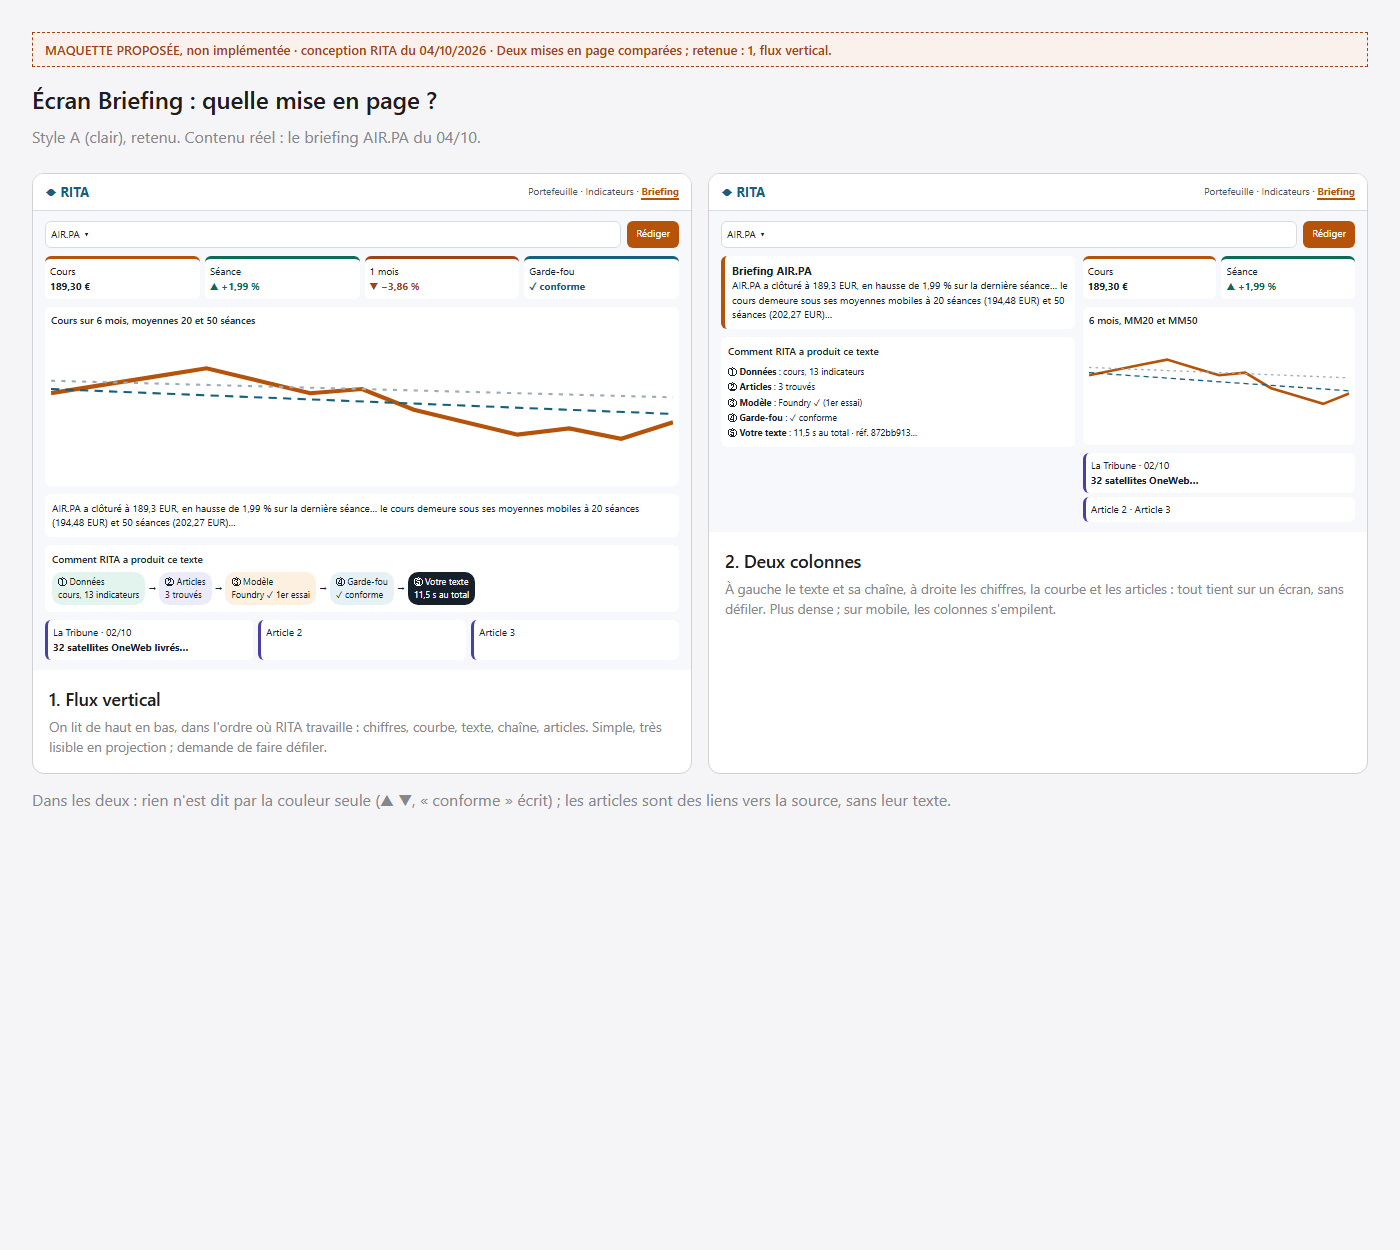
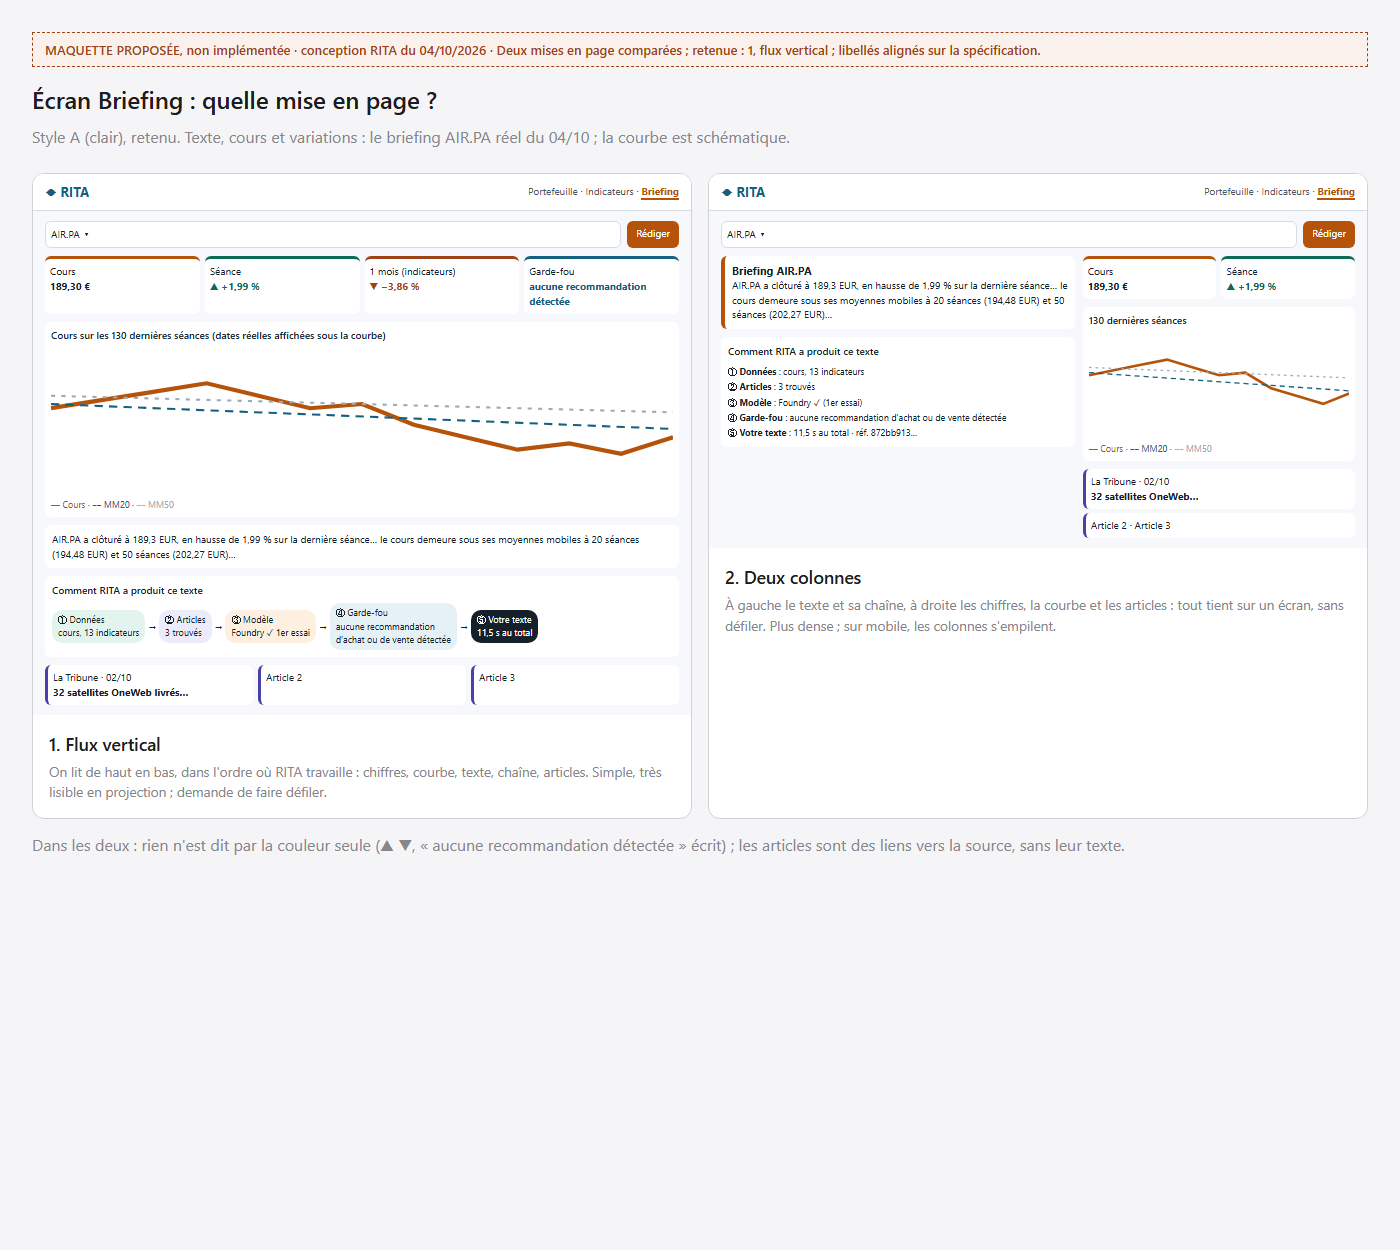
Specification de la refonte, quatrieme relecture : plus d exception a la decision A ; chaque chiffre affiche relie a un champ reel (indicateurs par ticker pour le briefing, cartes du portefeuille sans agregat recalcule) ; exemple separe entre observe (trace Langfuse) et illustratif ; jours de bourse

diff --git a/docs/conception/frontend/refonte-2026-10.md b/docs/conception/frontend/refonte-2026-10.md
@@ -64,9 +64,9 @@ navigateur. Les noms de champs sont ceux de l'API, suffixes compris.
 
 | Écran | Appels | Champs utilisés |
 |---|---|---|
-| Portefeuille | `GET /donnees/portefeuille`, `GET /donnees/indicateurs-portefeuille`, `GET /donnees/fraicheur`, en parallèle | `valorisation_eur`, `investi_eur`, `performance_pct`, `date_cours` (par ligne), `positions_sans_taux` ; `poids_pct`, `complet`, `nb`, `total_eur`, `exposition` |
+| Portefeuille | `GET /donnees/portefeuille`, `GET /donnees/indicateurs-portefeuille`, `GET /donnees/fraicheur`, en parallèle | cartes : `total_eur` (« non calculable » s'il vaut `null`), `nb`, `positions_sans_taux`, `positions_closes` ; par ligne : `valorisation_eur`, `investi_eur`, `performance_pct`, `date_cours` ; poids : `poids_pct`, `complet`, `exposition`. **Aucune performance globale** : l'API n'en fournit pas, et le navigateur n'en recalcule pas |
 | Indicateurs | `GET /donnees/indicateurs`, `GET /donnees/indicateurs-risque` ; au choix d'une valeur, `GET /donnees/cotations?ticker=…&limite=179` | `perf_1j_pct`, `perf_1s_pct`, `perf_1m_pct`, `perf_ytd_pct`, `perf_1a_pct` ; `rsi_14`, `volatilite_annualisee_pct`, `drawdown_max_1a_pct` ; le nombre de valeurs est lu dans la réponse, jamais écrit en dur |
-| Briefing | `POST /briefing?ticker=…` (un seul envoi par clic) ; après la réponse, `GET /donnees/cotations?ticker=…&limite=179` | les champs actuels, plus `diagnostic` (§ 6) |
+| Briefing | `POST /briefing?ticker=…` (un seul envoi par clic) ; après la réponse, `GET /donnees/indicateurs?ticker=…` et `GET /donnees/cotations?ticker=…&limite=179` | les champs actuels, plus `diagnostic` (§ 6) ; la carte « 1 mois » vient de `perf_1m_pct` (`/donnees/indicateurs` accepte `?ticker=`) |
 
 **La courbe du cours et ses moyennes**
 - `GET /donnees/cotations` renvoie les séances **de la plus récente à la plus ancienne** : elles sont remises dans l'ordre
@@ -81,9 +81,13 @@ navigateur. Les noms de champs sont ceux de l'API, suffixes compris.
 Le badge de l'écran portefeuille porte la fraîcheur **du jeu de données** (`/donnees/fraicheur`) ; chaque ligne garde la date de **son** cours.
 
 **Date et fraîcheur d'un cours**, pour la valeur affichée, jamais recopiées de la fraîcheur globale du jeu :
-« Cours : vendredi 2 octobre · âge : 2 jours calendaires · aucune séance manquée (calendrier Euronext) ». Le compte des
-séances manquées vient de `monitorage/fraicheur.py` (calendrier Euronext, jours fériés compris) ; pour une valeur cotée
-hors Euronext (Londres, New York), seul l'âge calendaire est donné, et l'écran le dit.
+« Cours : vendredi 2 octobre · âge : 2 jours calendaires · 0 jour de bourse écoulé depuis (calendrier Euronext) ». Le
+compte vient de `jours_ouvres_ecoules()` (`monitorage/fraicheur.py:72`), dont la **convention** est écrite à côté du
+chiffre : jours de bourse Euronext **strictement après** la date du cours, **jusqu'à aujourd'hui inclus**. Le lundi matin,
+le lundi compte donc déjà, alors que sa clôture n'existe pas encore : ce compte dit un écart de calendrier, **pas une
+cotation manquante**. Établir une cotation réellement manquante demanderait un autre calcul (heure de clôture de la place),
+hors de cette refonte. Pour une valeur cotée hors Euronext (Londres, New York), seul l'âge calendaire est donné, et l'écran
+le dit.
 
 ## 6. L'évolution de l'API : `diagnostic` et `503`
 
@@ -91,7 +95,11 @@ C'est **la seule** évolution de l'API ; les treize autres chemins ne changent p
 `generer_texte()` (`src/llm.py`) ne renvoie aujourd'hui que le texte, le fournisseur et le modèle doivent donc remonter
 par l'appel au modèle, le graphe, puis la réponse de l'API.
 
-Exemple, avec les valeurs du briefing AIR.PA du 04/10/2026 (titre et lien abrégés) :
+Exemple construit sur le briefing AIR.PA du 04/10/2026. **Observés** : `fournisseur`, `modele` et l'unique tentative,
+lus dans la trace Langfuse de cette requête (référence `872bb913…`, trace `9d0ffddc…`, 14 h 54 UTC : une seule génération,
+`llm-foundry`, modèle `gpt-5.4-2026-03-05`) ; `date_cours` et l'âge, depuis le texte servi. **Illustratifs** : `duree_ms`
+(la racine de la trace mesure 11,47 s, le traitement complet de l'API n'a pas été mesuré pour cette requête) et le
+détail des sources (titre et lien abrégés) :
 
 ```
 "diagnostic": {
@@ -101,7 +109,7 @@ Exemple, avec les valeurs du briefing AIR.PA du 04/10/2026 (titre et lien abrég
   "duree_ms": 11469,
   "date_cours": "2026-10-02",
   "age_calendaire_jours": 2,
-  "seances_manquees": 0,
+  "jours_bourse_ecoules": 0,
   "calendrier": "Euronext",
   "sources": [{"titre": "…", "source": "La Tribune", "publie_le": "2026-10-02", "lien": "https://…"}]
 }
@@ -109,17 +117,22 @@ Exemple, avec les valeurs du briefing AIR.PA du 04/10/2026 (titre et lien abrég
 
 | Champ | Définition exacte |
 |---|---|
-| `fournisseur`, `modele` | ceux qui ont **réellement** produit le texte, pas la préférence configurée |
+| `fournisseur`, `modele` | ceux qui ont **réellement** produit le texte, pas la préférence configurée ; `modele` vaut `null` si le fournisseur ne le renvoie pas (jamais le nom configuré à sa place) |
 | `tentatives` | un élément par fournisseur essayé, dans l'ordre : nom et réussite ; **jamais de message d'erreur** (il reste dans le journal du serveur) |
-| `duree_ms` | durée du **traitement complet** de la requête par l'API, pas celle du seul appel au modèle |
-| `date_cours`, `age_calendaire_jours`, `seances_manquees`, `calendrier` | la fraîcheur du cours de cette valeur (§ 5) ; `seances_manquees` vaut `null` hors Euronext |
-| `sources` | les passages **réellement fournis au modèle** pour ce texte : titre, source, date, lien ; **jamais le texte de l'article** |
+| `duree_ms` | durée du **traitement complet** de la requête par l'API, pas celle du seul appel au modèle ; entier **supérieur ou égal à 0** |
+| `date_cours`, `age_calendaire_jours`, `jours_bourse_ecoules`, `calendrier` | la fraîcheur du cours de cette valeur (§ 5) ; `jours_bourse_ecoules` et `calendrier` valent `null` hors Euronext |
+| `sources` | les articles dont un passage a été **réellement fourni au modèle** pour ce texte, **un élément par article** (dédoublonnés par lien, dans l'ordre de pertinence) : titre, source, date, lien ; **jamais le texte de l'article** ; `[]` si aucun passage n'a été fourni ; `lien` vaut `null` si son schéma n'est pas `http` ou `https` (le lien n'est alors pas rendu cliquable) |
 
 Ces informations appartiennent à **une requête** : aucun état partagé entre deux briefings simultanés.
 
-**Erreur nouvelle** : quand tous les fournisseurs échouent, l'API répond **`503`** avec le code `AUCUN_FOURNISSEUR`.
-Toute autre panne imprévue reste un `500` générique, sans détail pour le client. Ces deux comportements entrent au
-contrat OpenAPI.
+**Erreur nouvelle** : quand tous les fournisseurs échouent, l'API répond **`503`** avec ce corps exact :
+
+```
+{"detail": {"code": "AUCUN_FOURNISSEUR", "message": "Aucun fournisseur de modèle n'a répondu."}}
+```
+
+et l'en-tête `X-Request-ID`, comme toute réponse. Toute autre panne imprévue reste un `500` générique, sans détail pour
+le client. Ces deux comportements entrent au contrat OpenAPI.
 
 ## 7. Les états d'affichage
 
@@ -167,14 +180,14 @@ décrit dans `tentatives`.
 
 | Niveau | Ce qu'il prouve | Outil |
 |---|---|---|
-| API | `diagnostic` présent et conforme au § 6 ; `tentatives` sans message d'erreur ; `sources` égales aux passages fournis ; `duree_ms` positif ; **deux requêtes réellement simultanées** (valeurs et métadonnées différentes) ne se mélangent pas ; tous les fournisseurs en panne donnent `503` `AUCUN_FOURNISSEUR` ; autre exception : `500` sans détail ; contrat OpenAPI à jour | `pytest`, `TestClient`, fournisseurs simulés (aucun appel payant) |
+| API | `diagnostic` présent et conforme au § 6 ; `tentatives` sans message d'erreur ; `sources` égales aux articles des passages fournis (un par article, `[]` sans passage, lien non `http(s)` mis à `null`) ; `modele` à `null` quand il n'est pas connu ; `duree_ms` supérieur ou égal à 0 ; **deux requêtes réellement simultanées** (valeurs et métadonnées différentes) ne se mélangent pas ; tous les fournisseurs en panne donnent `503` `AUCUN_FOURNISSEUR` ; autre exception : `500` sans détail ; contrat OpenAPI à jour | `pytest`, `TestClient`, fournisseurs simulés (aucun appel payant) |
 | Graphiques | séries de **0, 1, 19, 20, 49, 50 et 179** séances ; dates dans le désordre, valeurs manquantes, cours constants ; moyennes comparées à des valeurs calculées indépendamment ; anneau non dessiné si les poids sont nuls ; l'alternative textuelle contient les mêmes chiffres que le dessin | Playwright (`page.evaluate`) |
 | Écrans, API interceptée | **chaque état du § 7**, dont le refus du garde-fou, le portefeuille incomplet, le double clic (un seul envoi), la réponse tardive ignorée, la clé gardée seulement après une réponse réussie ; un nom ou un titre contenant du HTML reste du texte | Playwright |
 | Parcours avec la vraie API | un parcours complet dans le navigateur à travers l'API réelle de l'application, fournisseurs et lectures de base remplacés par des jeux contrôlés : il prouve que l'écran comprend la vraie réponse (champs, en-têtes, formats) | Playwright, `uvicorn` |
 | Configuration mixte | si seul l'écran briefing est livré : les écrans portefeuille et indicateurs actuels fonctionnent avec le `style.css` et le `commun.js` nouveaux | Playwright |
 | Statique | aucune clé dans le code ; aucune insertion de chaîne HTML ; pas de forme de recommandation (formes impératives, « signal d'achat », « survendu »…), mais les phrases qui **expliquent** l'interdit restent permises (le piège est documenté dans `tests/test_frontend.py`, test du RSI) | `tests/test_frontend.py` |
 | Accessibilité | Lighthouse accessibilité **100 comme seuil de non-régression**, pas comme preuve d'accessibilité complète ([le score exclut les contrôles manuels](https://developer.chrome.com/docs/lighthouse/accessibility/scoring)) ; contrôles manuels : clavier, focus après un résultat ou une erreur, zoom 200 %, alternatives des graphiques ; les essais au lecteur d'écran réellement faits sont notés, avec leurs limites | Lighthouse, manuel |
-| Éco-conception | EcoIndex calculé **en local avec le code officiel** (même méthode et même nom que le 03/10, pas une analyse du site public), **avant et après**, sur le **même scénario** : même jeu de données, même état d'écran (valeur choisie avec sa courbe, briefing affiché), même taille de fenêtre, même cache, mêmes versions d'outils ([méthode EcoIndex](https://www.ecoindex.fr/en/how-it-works/)) | outils de `evidence/C17/mesures-2026-10-03/outils/` |
+| Éco-conception | EcoIndex calculé **en local avec le code officiel** (même méthode et même nom que le 03/10, pas une analyse du site public), **avant et après**, sur un **parcours qui existe dans les deux versions** : les trois écrans chargés avec la même clé et le même jeu de données, un briefing affiché, même taille de fenêtre, même cache, mêmes versions d'outils. Les interactions **nouvelles** (courbe d'une valeur choisie, panneau « Comprendre ce résultat ») sont mesurées **à part**, sans comparaison avec l'ancienne version, qui ne les a pas ([méthode EcoIndex](https://www.ecoindex.fr/en/how-it-works/)) | outils de `evidence/C17/mesures-2026-10-03/outils/` |
 
 **Ce que doit contenir la preuve finale** (un nouveau rapport daté dans `evidence/C17/`, celui du 03/10 est conservé tel
 quel) : le commit testé, les commandes lancées, leurs sorties, **la liste des tests sautés**. Un test navigateur sauté
@@ -194,12 +207,14 @@ serveur tôt dans la fenêtre, rapport E4, préparation de l'oral.
   doivent concorder.
 - **Une version distincte** : la refonte sera livrée sous sa propre version, sans réécrire ce que décrivent les rapports
   gelés.
-- **Ouverture conditionnelle** : si le travail prioritaire se termine tôt **et** qu'une estimation réaliste (tests,
-  preuves et répétition compris) tient, l'écran briefing peut être commencé avant ; sinon, non.
+- **Aucune exception** : toute proposition de démarrage anticipé fera l'objet d'une décision distincte. La présente
+  spécification ne prévoit aucune exception à la décision A.
+- **Au moment d'écrire le plan d'implémentation**, le code est relu : des correctifs comme #73 ou #75 S6 auront peut-être
+  été faits entre-temps, et ne seront pas refaits.
 
 **Ordre de construction, le moment venu** (un pas = un commit et une chaîne verte) :
 
-1. mesure **« avant »** des écrans actuels, sur le scénario du § 9 ;
+1. mesure **« avant »** des écrans actuels, sur le parcours commun du § 9 ;
 2. API : `diagnostic`, `503 AUCUN_FOURNISSEUR`, contrat OpenAPI ;
 3. `commun.js` : clé (#73), en-tête, erreurs, envoi unique ;
 4. `graphiques.js` : fonctions et cas limites ;
@@ -220,7 +235,10 @@ daté de secours en cas de panne de réseau ou de fournisseur pendant l'oral. Le
 - Deux définitions de la fraîcheur coexistent dans le code (jours calendaires pour le prompt du rédacteur, jours de
   séance pour le monitorage) ; l'écran les affiche séparément, l'harmonisation du prompt est un correctif distinct.
 - La date de réalisation est inconnue : rien de ce document ne doit être présenté comme fait avant ses preuves.
-- Les maquettes portent des **valeurs illustratives**, sauf la ligne AIR.PA (briefing réel du 04/10).
+- Les maquettes portent des **valeurs illustratives**. Viennent du briefing réel AIR.PA du 04/10 : le texte, le cours
+  (189,30), les variations sur une séance, une semaine, un mois et depuis le 1er janvier, les moyennes 20 et 50 séances
+  (194,48 et 202,27), le fournisseur et le modèle (trace Langfuse de la requête). Sont **schématiques ou inventés** : les
+  courbes, le RSI de 41, les autres lignes de la carte des performances, tout le portefeuille (jeu d'exemple).
 
 ## 12. Maquettes proposées (non implémentées)
 
@@ -230,17 +248,22 @@ daté de secours en cas de panne de réseau ou de fournisseur pendant l'oral. Le
 
 ![Les écrans portefeuille et indicateurs](maquettes/maquette-3-portefeuille-et-indicateurs.png)
 
-La troisième maquette a été corrigée après validation : la colonne des petites courbes, abandonnée au § 3, en est retirée.
+Les maquettes ont été corrigées après validation pour dire la même chose que ce document : colonne des petites courbes
+retirée (§ 3) ; verdict écrit « aucune recommandation d'achat ou de vente détectée » ; légende séparée Cours, MM20, MM50 ;
+période en séances au lieu de « 6 mois » ; cartes du portefeuille nourries par des champs réels ; jauge du RSI neutre,
+sans couleur qui suggère un « bon » RSI.
 
 ## 13. Comment cette conception a été faite
 
 Le 04/10/2026, par étapes validées une à une par Era : intention, choix du niveau d'information (A et deux éléments de B),
 jeu de graphiques, technique de dessin, maquettes (style, puis écran briefing, puis les deux autres), puis quatre sections
-de conception. **Trois relectures extérieures** ont été vérifiées point par point contre le code avant d'être intégrées ;
-toutes étaient justes. Elles ont corrigé, entre autres : l'ordre des cotations avant le calcul des moyennes, un champ mal
+de conception. **Quatre relectures extérieures** ont été vérifiées point par point contre le code avant d'être intégrées ;
+toutes étaient justes, une avec une nuance (le fournisseur et le modèle de l'exemple étaient bien établis, par la trace,
+mais la preuve n'était pas citée). Elles ont corrigé, entre autres : l'ordre des cotations avant le calcul des moyennes, un champ mal
 attribué (`positions_sans_taux`), un anneau qui aurait affiché 100 % sur un portefeuille incomplet, un `500` qui ne veut
-pas toujours dire « fournisseurs en panne », une contradiction entre SVG en chaîne et `textContent`, et un calendrier qui
-contredisait le plan E4.
+pas toujours dire « fournisseurs en panne », une contradiction entre SVG en chaîne et `textContent`, un calendrier qui
+contredisait le plan E4, des chiffres de maquette sans champ réel derrière, et un « séances manquées » que la fonction
+de fraîcheur ne permet pas d'affirmer.
 
 ## 📖 Glossaire
 
